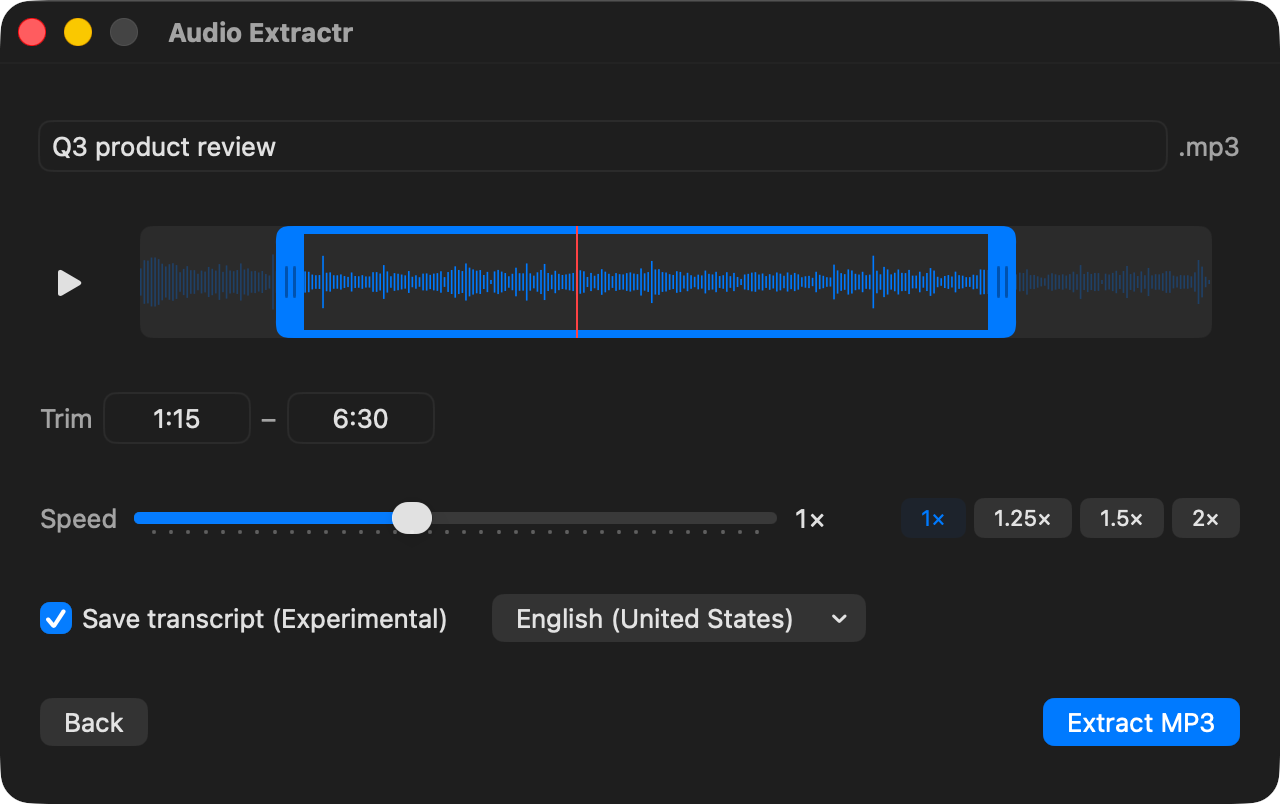
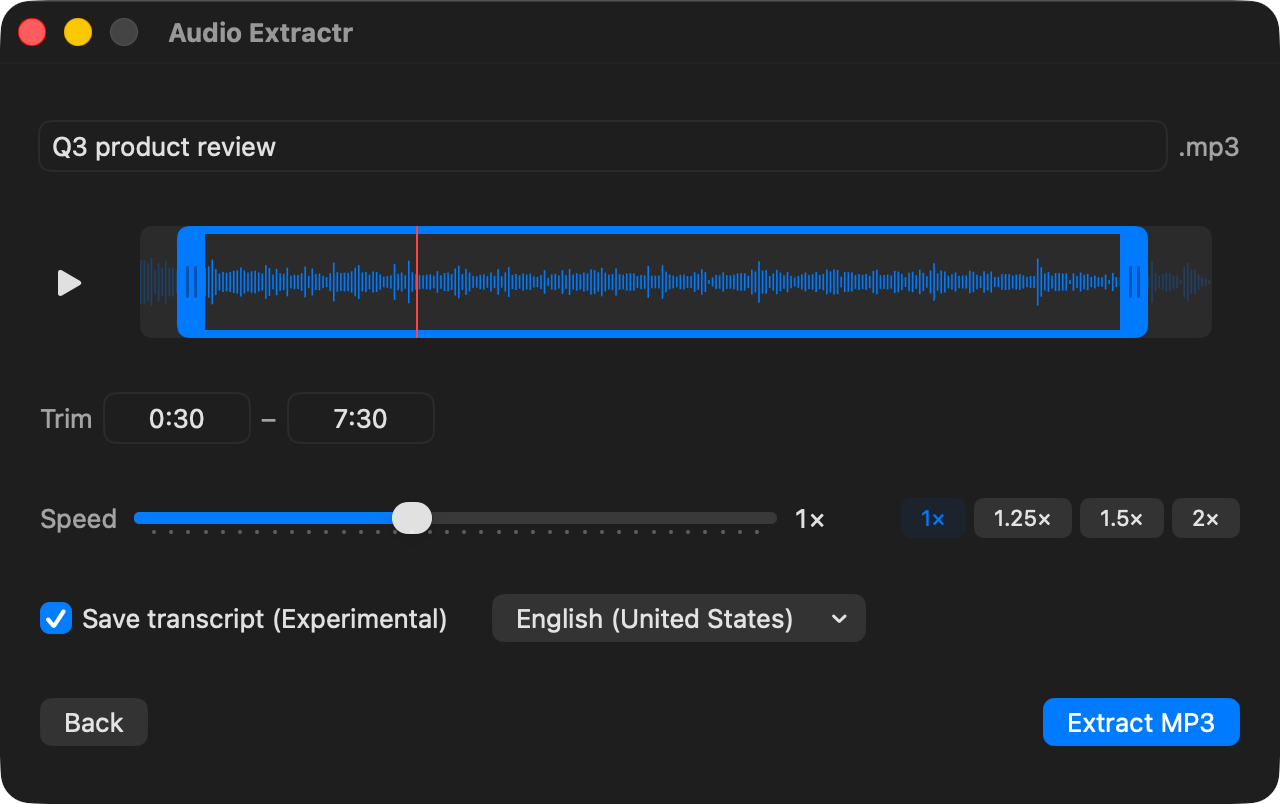
chore(site): refresh edit-screen screenshots, drop screenshot shadow (#10)
New raw captures of the edit screen for both light and dark, matching
the existing raw-capture convention (no padding, background, or window
shadow baked in). Also dropped the CSS box-shadow the site was adding
on top (--shadow-window, now unused everywhere), so the screenshot
reads flatter, just the border framing it.

diff --git a/site/src/styles/global.css b/site/src/styles/global.css
@@ -14,8 +14,6 @@
   --on-accent: #ffffff;
   --link: #006cf0;
 
-  --shadow-window: 0 1px 2px rgb(20 22 26 / 0.05), 0 10px 28px rgb(20 22 26 / 0.08);
-
   --radius-sm: 8px;
   --radius-md: 12px;
   --radius-lg: 18px;
@@ -49,7 +47,6 @@
     --text: #ecedef;
     --muted: #9ba0a8;
     --link: #1b86ff;
-    --shadow-window: 0 1px 2px rgb(0 0 0 / 0.4), 0 14px 36px rgb(0 0 0 / 0.45);
   }
 
   @supports (color: oklch(from red 0.5 c h)) {
